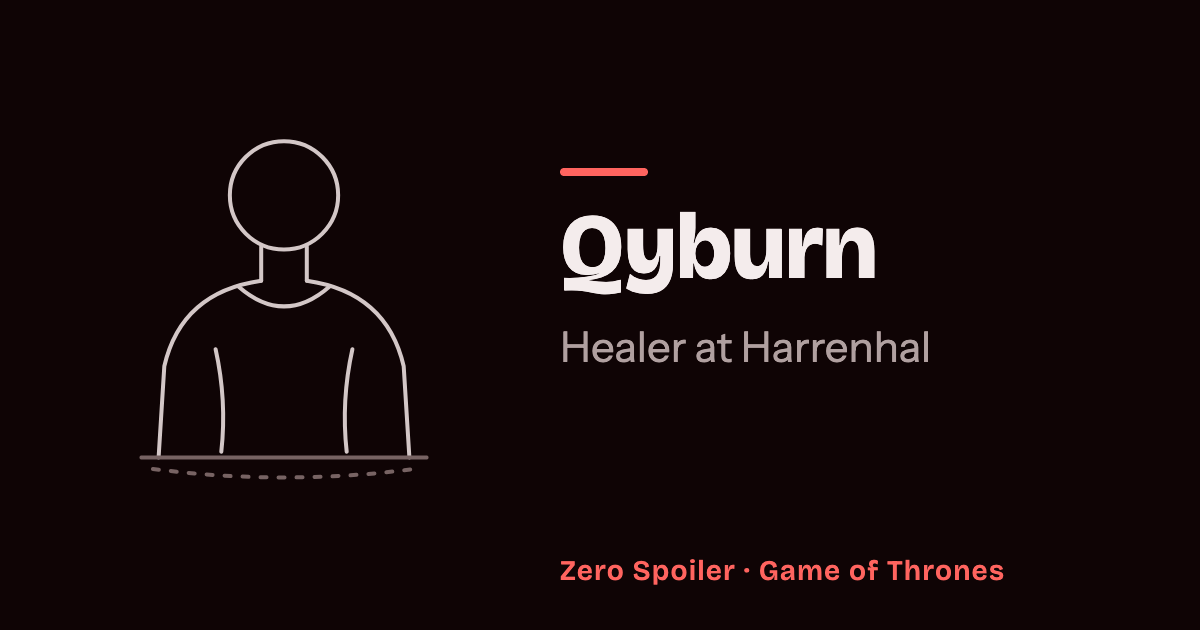
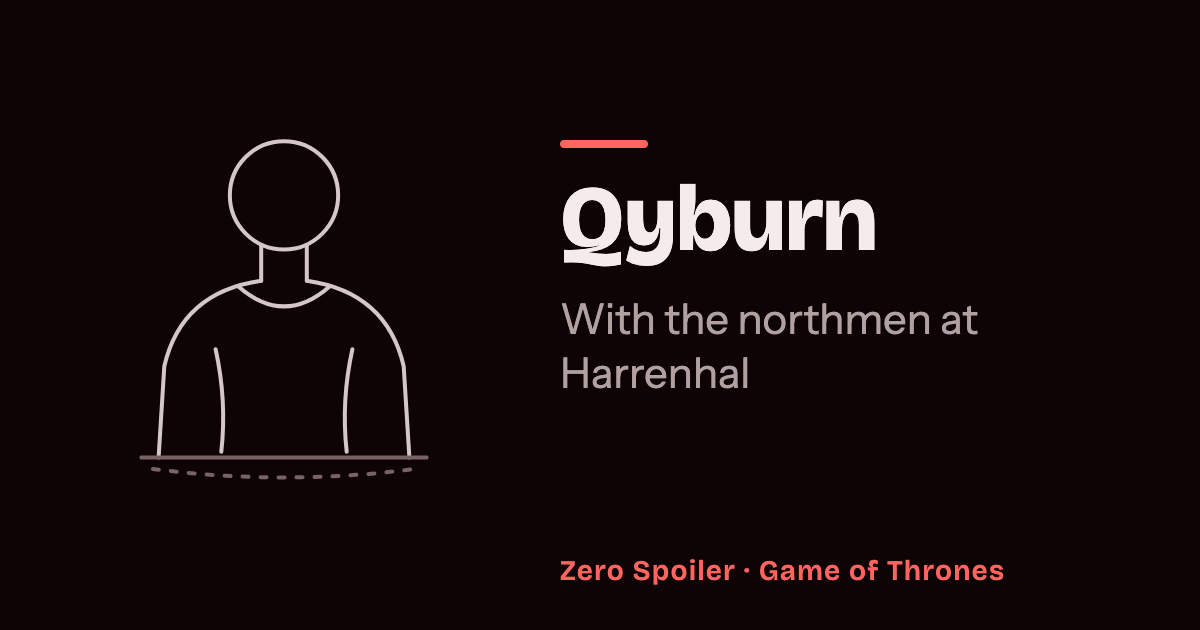
fix(thrones): hold Qyburn's gate texts to what each medium tells there
Review round 1: the summary, log and first role step say only that he
is at Harrenhal while the northmen hold it. The healer roles become
dated steps by medium (books 175, show 25), the books' Brave Companions
affiliation is dropped, and the provenance and inventory follow.

Changed region(s): [[0.4625, 0.2111, 0.8325, 0.6333]]

diff --git a/src/data/series/game-of-thrones/records/season-3.ts b/src/data/series/game-of-thrones/records/season-3.ts
@@ -178,15 +178,53 @@ export const season3: ThronesSaga = {
     },
     // #1637: Jaime, Brienne and Harrenhal.
     'qyburn': {
-      role: { it: 'Guaritore a Harrenhal', en: 'Healer at Harrenhal' },
+      // The gate texts hold what both media tell at his gates: the show's
+      // 21 has him give his name to Robb while Talisa tends his wound, the
+      // books' 175 has Roose Bolton set him to clean Jaime's stump. What he
+      // is comes as dated steps, by medium.
+      role: [
+        {
+          episode: 21,
+          chapter: 175,
+          value: {
+            it: 'Con gli uomini del Nord a Harrenhal',
+            en: 'With the northmen at Harrenhal',
+          },
+        },
+        // Books only: Roose Bolton has him cleanse and bandage Jaime's
+        // stump, in Jaime IV (chapter 175), his gate. Episode 21 only orders
+        // it. That he was a maester is not in the cached chapters through
+        // 196, so no step tells it.
+        {
+          episode: 21,
+          chapter: 175,
+          source: 'chapter',
+          value: {
+            it: 'Guaritore al servizio di Roose Bolton',
+            en: 'Healer in Roose Bolton’s service',
+          },
+        },
+        // Show only: he treats Jaime's stump, and tells him the Citadel
+        // stripped him of his chain for his experiments, in "Kissed by Fire"
+        // (episode 25). Chapter 175 only orders it.
+        {
+          episode: 25,
+          chapter: 175,
+          source: 'episode',
+          value: {
+            it: 'Guaritore privato della catena di maestro',
+            en: 'Healer stripped of his maester’s chain',
+          },
+        },
+      ],
       log: {
-        it: 'Si è formato come maestro e sa curare le ferite. Si trova a Harrenhal mentre il castello è in mano agli uomini del Nord.',
-        en: 'He trained as a maester and knows how to treat wounds. He is at Harrenhal while the northmen hold the castle.',
+        it: 'Si trova a Harrenhal mentre il castello è in mano agli uomini del Nord.',
+        en: 'He is at Harrenhal while the northmen hold the castle.',
       },
       status: [{ episode: 21, chapter: 175, value: 'alive' }],
       affiliation: [
         // Show only: the northmen find him alive among the prisoners Ser
-        // Gregor's men put to the sword, and he names himself to Robb, in
+        // Gregor's men put to the sword, and he gives Robb his name, in
         // "Valar Dohaeris" (episode 21).
         {
           episode: 21,
@@ -194,25 +232,12 @@ export const season3: ThronesSaga = {
           source: 'episode',
           value: { it: 'Nessuna fedeltà', en: 'No allegiance' },
         },
-        // Books only: one of Vargo Hoat's sellswords, who serve Roose Bolton
-        // at Harrenhal when the Goat brings Jaime in, in Jaime IV (chapter
-        // 175). Episode 21 only orders it.
-        {
-          episode: 21,
-          chapter: 175,
-          source: 'chapter',
-          value: {
-            it: 'Bravi Camerati, al servizio di Roose Bolton',
-            en: 'Brave Companions, in Roose Bolton’s service',
-          },
-        },
-        // Show only: he stays at Harrenhal when Robb leaves Roose Bolton in
-        // command there, and Lord Bolton has him treat Jaime's stump, in
-        // "Kissed by Fire" (episode 25).
+        // Roose Bolton has him tend Jaime's stump, in "Kissed by Fire"
+        // (episode 25; the show's Qyburn stays at Harrenhal when Robb leaves
+        // Roose in command) and Jaime IV (chapter 175), the books' gate.
         {
           episode: 25,
           chapter: 175,
-          source: 'episode',
           value: {
             it: 'Al servizio di Roose Bolton',
             en: 'In Roose Bolton’s service',
@@ -383,7 +408,7 @@ export const season3: ThronesSaga = {
     // #1637: Jaime, Brienne and Harrenhal.
     //
     // Show: "Valar Dohaeris" (episode 21), the northmen find him alive at
-    // Harrenhal and he names himself to Robb. Books: Jaime IV (site chapter
+    // Harrenhal and he gives Robb his name. Books: Jaime IV (site chapter
     // 175), Roose Bolton has Qyburn clean and bind Jaime's stump.
     {
       id: 'qyburn',
@@ -392,8 +417,8 @@ export const season3: ThronesSaga = {
       revealedAtChapter: 175,
       name: { it: 'Qyburn', en: 'Qyburn' },
       summary: {
-        it: 'Un guaritore formatosi come maestro, a Harrenhal.',
-        en: 'A healer trained as a maester, at Harrenhal.',
+        it: 'Un uomo a Harrenhal, mentre il castello è in mano agli uomini del Nord.',
+        en: 'A man at Harrenhal while the northmen hold the castle.',
       },
       visual: { art: 'qyburn', tint: 'ivory' },
     },

diff --git a/src/server/archive/thronesSeason3Harrenhal.test.ts b/src/server/archive/thronesSeason3Harrenhal.test.ts
@@ -59,12 +59,20 @@ const STEPS: {
   id: string
   source?: 'chapter' | 'episode'
 }[] = [
+  { id: 'qyburn', en: 'In Roose Bolton’s service', episode: 25, chapter: 175 },
   {
     id: 'qyburn',
-    en: 'In Roose Bolton’s service',
+    en: 'Healer stripped of his maester’s chain',
     episode: 25,
     chapter: 175,
     source: 'episode',
+  },
+  {
+    id: 'qyburn',
+    en: 'Healer in Roose Bolton’s service',
+    episode: 21,
+    chapter: 175,
+    source: 'chapter',
   },
   {
     id: 'vargo-hoat',
@@ -161,20 +169,16 @@ describe('the third season’s Jaime, Brienne and Harrenhal cast', () => {
     },
   )
 
-  it('opens Qyburn with no allegiance in the show and a Brave Companion in the books', () => {
+  it('opens Qyburn as only a man with the northmen in the show, a healer in the books', () => {
     const show = pageOf('qyburn', reader('episode', 21))
     const books = pageOf('qyburn', reader('chapter', 175))
-    const companion = JSON.stringify(
-      'Brave Companions, in Roose Bolton’s service',
-    )
 
+    expect(show).toContain(JSON.stringify('With the northmen at Harrenhal'))
     expect(show).toContain(JSON.stringify('No allegiance'))
-    expect(show).not.toContain(companion)
-    expect(books).toContain(companion)
+    expect(show).not.toMatch(/healer|maester/iu)
+    expect(books).toContain(JSON.stringify('Healer in Roose Bolton’s service'))
     expect(books).not.toContain(JSON.stringify('No allegiance'))
-    expect(
-      pageOf('qyburn', reader('episode', archive.series.episodeCeiling)),
-    ).not.toContain(companion)
+    expect(books).not.toMatch(/maester|Brave Companions/iu)
   })
 
   it('makes Roose Bolton’s Harrenhal command shared, from episode 22', () => {

diff --git a/docs/content-provenance/game-of-thrones-season-3-characters.md b/docs/content-provenance/game-of-thrones-season-3-characters.md
@@ -174,19 +174,21 @@ stepped.
 Gates as episode / site chapter. `source` records give the other number only to
 order them.
 
-| Record                       | Show                                                                                                                                                | Books                                                                                                                                               |
-| ---------------------------- | --------------------------------------------------------------------------------------------------------------------------------------------------- | --------------------------------------------------------------------------------------------------------------------------------------------------- |
-| `qyburn`                     | 21, "Valar Dohaeris": found alive among the slain prisoners at Harrenhal, he identifies himself to Robb while Talisa tends his throat (Qyburn page) | 175, Jaime IV: Roose Bolton has Qyburn clean and bandage Jaime's stump; A Clash of Kings lists him among the Brave Companions with no scene (#1465) |
-| `steelshanks-walton` (books) | none: the show's Steelshanks is named only in narration in the pages read (owner check); 27 orders him                                              | 188, Jaime VI: he leads the two hundred Dreadfort men who escort Jaime, and Jaime forces him back to Harrenhal; 175 lists him unnamed (safe later)  |
+| Record                       | Show                                                                                                                                        | Books                                                                                                                                              |
+| ---------------------------- | ------------------------------------------------------------------------------------------------------------------------------------------- | -------------------------------------------------------------------------------------------------------------------------------------------------- |
+| `qyburn`                     | 21, "Valar Dohaeris": found alive among the slain prisoners at Harrenhal, he gives Robb his name while Talisa tends his wound (Qyburn page) | 175, Jaime IV: Roose Bolton has Qyburn clean and bandage the stump; A Clash of Kings lists him with no scene (#1465)                               |
+| `steelshanks-walton` (books) | none: the show's Steelshanks is named only in narration in the pages read (owner check); 27 orders him                                      | 188, Jaime VI: he leads the two hundred Dreadfort men who escort Jaime, and Jaime forces him back to Harrenhal; 175 lists him unnamed (safe later) |
 
-- Qyburn: role healer at Harrenhal, alive. Summary and log say he trained as a
-  maester and is at Harrenhal while the northmen hold it, true at both gates.
-  Affiliation by medium: the show's no allegiance at 21, then in Roose Bolton's
-  service at 25 ("Kissed by Fire", Lord Bolton has him treat Jaime); the books'
-  Brave Companions in Roose Bolton's service at 175. His chain, stripped by the
-  Citadel (told at 25 in the show), is in no field. He leaves Harrenhal with
-  Jaime at 27 / 188 and reaches King's Landing in "Mhysa" (30); neither changes
-  a field. Italian "Qyburn" (Personaggi).
+- Qyburn: alive. The summary, the log and the first role step ("With the
+  northmen at Harrenhal") hold only what both media tell at the gates: he is at
+  Harrenhal while the northmen hold it (review round 1). Role steps by medium:
+  the books' healer in Roose Bolton's service at 175 (Jaime IV, the stump); the
+  show's healer stripped of his maester's chain at 25 ("Kissed by Fire").
+  Affiliation: the show's no allegiance at 21, then in Roose Bolton's service at
+  25 / 175, shared. The books' maester background and Brave Companions are in
+  none of the cached chapter synopses through 196 and are not filed. He leaves
+  Harrenhal with Jaime at 27 / 188 and reaches King's Landing in "Mhysa" (30);
+  neither changes a field. Italian "Qyburn" (Personaggi).
 - Steelshanks Walton: books only, role captain in Roose Bolton's service, House
   Bolton, alive. His log holds Jaime VI: the escort, the turn back for Brienne,
   his men's crossbows against the bear. Italian kept: Italian Wikipedia has no

diff --git a/docs/architecture.md b/docs/architecture.md
@@ -614,8 +614,8 @@ epithet, bounty and the like) are counted only as part of the timelines row.
 | Saga modules           | 3                                                                                       |
 | Line drawings          | 312, one per record and 3 for the seasons' headings, plus 213 redrawings of 156 records |
 | Chronicle stories      | 1188, for 213 characters                                                                |
-| Dated timelines        | 1076                                                                                    |
-| Affiliation steps      | 258                                                                                     |
+| Dated timelines        | 1077                                                                                    |
+| Affiliation steps      | 257                                                                                     |
 | Status steps           | 395                                                                                     |
 | Later visits to places | 5                                                                                       |
 
